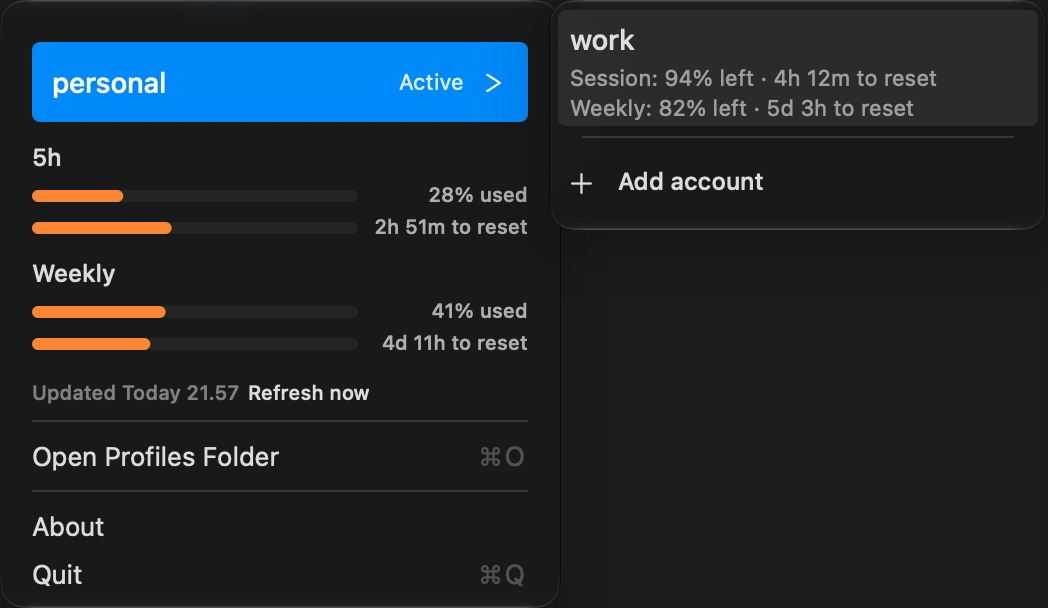
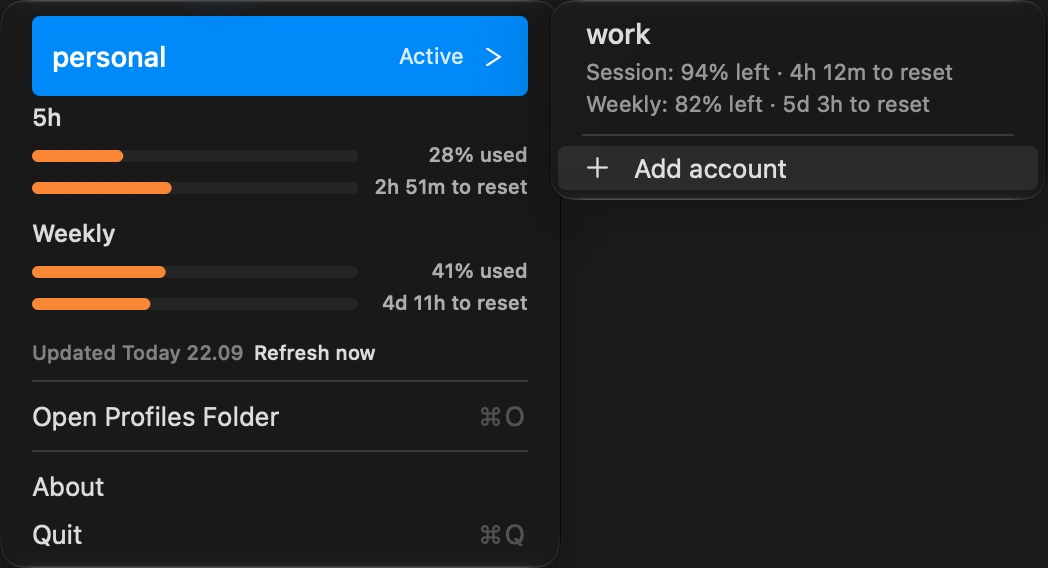
Match account menu spacing to native menu items

diff --git a/CodexAccountSwitcher.swift b/CodexAccountSwitcher.swift
@@ -158,6 +158,26 @@ private final class PlainTextButton: NSButton {
     }
 }
 
+private enum MenuLayout {
+    static let width: CGFloat = 280
+    static let horizontalPadding: CGFloat = 16
+    static let contentWidth = width - horizontalPadding * 2
+    static let itemFont = NSFont.menuFont(ofSize: 0)
+    static let titleDetailGap: CGFloat = 4
+    static let detailGap: CGFloat = 2
+    static let accountBoxHeight: CGFloat = 40
+
+    // Match the space surrounding a standard native menu item's text.
+    static let verticalPadding: CGFloat = {
+        let cell = NSMenuItemCell(textCell: "Menu item")
+        cell.menuItem = NSMenuItem(title: "Menu item", action: nil, keyEquivalent: "")
+        cell.font = itemFont
+        let size = cell.cellSize
+        let titleRect = cell.titleRect(forBounds: NSRect(origin: .zero, size: size))
+        return max(0, (ceil(size.height) - ceil(titleRect.height)) / 2)
+    }()
+}
+
 // Draw the account styling while NSMenu owns submenu tracking and navigation.
 private final class AccountSubmenuCell: NSCell {
     var activeProfile = ""
@@ -213,7 +233,8 @@ private final class AccountSubmenuView: NSView {
     init(activeProfile: String) {
         accountCell = AccountSubmenuCell(textCell: activeProfile.isEmpty ? "Accounts" : activeProfile)
         accountCell.activeProfile = activeProfile
-        super.init(frame: NSRect(x: 0, y: 0, width: 280, height: 66))
+        super.init(frame: NSRect(x: 0, y: 0, width: MenuLayout.width,
+                                 height: MenuLayout.accountBoxHeight + MenuLayout.verticalPadding * 2))
         autoresizingMask = [.width]
         setAccessibilityElement(true)
         setAccessibilityRole(.menuItem)
@@ -226,59 +247,62 @@ private final class AccountSubmenuView: NSView {
 
     // The native menu handles hover, clicks and keyboard navigation for this row.
     override func draw(_ dirtyRect: NSRect) {
-        accountCell.draw(withFrame: NSRect(x: 16, y: 16, width: bounds.width - 32, height: 40), in: self)
+        accountCell.draw(withFrame: NSRect(x: MenuLayout.horizontalPadding, y: MenuLayout.verticalPadding,
+                                          width: bounds.width - MenuLayout.horizontalPadding * 2,
+                                          height: MenuLayout.accountBoxHeight), in: self)
     }
 }
 
 // Menu items retain their native title/action for keyboard navigation and type-select.
 // The view supplies wrapped usage details and a full-width pointer target.
 private final class AccountMenuItemView: NSView {
-    private static let horizontalPadding: CGFloat = 16
     private var isHovered = false
     private var hoverTrackingArea: NSTrackingArea?
 
     override var isFlipped: Bool { true }
 
     init(title: String, details: [String] = [], symbol: String? = nil) {
-        let width: CGFloat = 248
-        let textX = Self.horizontalPadding + (symbol == nil ? 0 : 24)
-        let textWidth = width - textX - Self.horizontalPadding
-        let detailFont = NSFont.systemFont(ofSize: 11)
-        var height: CGFloat = details.isEmpty ? 36 : 28
-        let detailHeights = details.map { detail -> CGFloat in
-            let rect = (detail as NSString).boundingRect(
-                with: NSSize(width: textWidth, height: .greatestFiniteMagnitude),
-                options: [.usesLineFragmentOrigin, .usesFontLeading],
-                attributes: [.font: detailFont]
-            )
-            return ceil(rect.height)
+        let width = MenuLayout.contentWidth
+        let textX = MenuLayout.horizontalPadding + (symbol == nil ? 0 : 24)
+        let textWidth = width - textX - MenuLayout.horizontalPadding
+
+        let titleLabel = NSTextField(labelWithString: title)
+        titleLabel.font = details.isEmpty ? MenuLayout.itemFont : .systemFont(ofSize: 14, weight: .medium)
+        titleLabel.lineBreakMode = .byTruncatingTail
+        let titleHeight = ceil(titleLabel.cell!.cellSize.height)
+        let detailLabels = details.map { detail -> NSTextField in
+            let label = NSTextField(wrappingLabelWithString: detail)
+            label.font = .systemFont(ofSize: 11)
+            label.textColor = .secondaryLabelColor
+            return label
         }
-        height += detailHeights.reduce(0) { $0 + $1 + 2 }
+        let detailHeights = detailLabels.map { label in
+            ceil(label.sizeThatFits(NSSize(width: textWidth, height: CGFloat.greatestFiniteMagnitude)).height)
+        }
+        let contentHeight = titleHeight
+            + (details.isEmpty ? 0 : MenuLayout.titleDetailGap)
+            + detailHeights.reduce(0, +)
+            + CGFloat(max(details.count - 1, 0)) * MenuLayout.detailGap
+        let height = max(contentHeight, symbol == nil ? 0 : 16) + MenuLayout.verticalPadding * 2
         super.init(frame: NSRect(x: 0, y: 0, width: width, height: height))
         autoresizingMask = [.width]
 
-        let label = NSTextField(labelWithString: title)
-        label.font = .systemFont(ofSize: details.isEmpty ? 12 : 14, weight: .medium)
-        label.lineBreakMode = .byTruncatingTail
-        label.frame = NSRect(x: textX, y: details.isEmpty ? 9 : 6, width: textWidth, height: 18)
-        label.autoresizingMask = [.width]
-        label.setAccessibilityElement(false)
-        addSubview(label)
-
-        var y: CGFloat = 27
-        for (index, detail) in details.enumerated() {
-            let label = NSTextField(wrappingLabelWithString: detail)
-            label.font = detailFont
-            label.textColor = .secondaryLabelColor
+        var y = (height - contentHeight) / 2
+        titleLabel.frame = NSRect(x: textX, y: y, width: textWidth, height: titleHeight)
+        titleLabel.autoresizingMask = [.width]
+        titleLabel.setAccessibilityElement(false)
+        addSubview(titleLabel)
+        y += titleHeight + MenuLayout.titleDetailGap
+        for (index, label) in detailLabels.enumerated() {
             label.frame = NSRect(x: textX, y: y, width: textWidth, height: detailHeights[index])
             label.autoresizingMask = [.width]
             label.setAccessibilityElement(false)
             addSubview(label)
-            y += detailHeights[index] + 2
+            y += detailHeights[index] + MenuLayout.detailGap
         }
 
         if let symbol, let image = NSImage(systemSymbolName: symbol, accessibilityDescription: nil) {
-            let icon = NSImageView(frame: NSRect(x: Self.horizontalPadding, y: (height - 16) / 2, width: 16, height: 16))
+            let icon = NSImageView(frame: NSRect(x: MenuLayout.horizontalPadding, y: (height - 16) / 2, width: 16, height: 16))
             icon.image = image
             icon.contentTintColor = .labelColor
             icon.setAccessibilityElement(false)
@@ -335,8 +359,8 @@ private final class AccountMenuItemView: NSView {
 }
 
 private final class UsageBarsMenuView: NSView {
-    private static let menuWidth: CGFloat = 280
-    private static let horizontalPadding: CGFloat = 16
+    private static let menuWidth = MenuLayout.width
+    private static let horizontalPadding = MenuLayout.horizontalPadding
     private static let topPadding: CGFloat = 0
     private static let rowHeight: CGFloat = 58
     private static let footerHeight: CGFloat = 18
@@ -928,7 +952,7 @@ final class AppDelegate: NSObject, NSApplicationDelegate {
     private func accountsSubmenu(profiles: [String], activeProfile: String) -> NSMenu {
         let menu = NSMenu()
         menu.autoenablesItems = false
-        menu.minimumWidth = 248
+        menu.minimumWidth = MenuLayout.contentWidth
         let alternatives = profiles.filter { $0 != activeProfile }
         for profile in alternatives {
             let details = accountUsageDetails(profile)

diff --git a/tests/test_account_menu.py b/tests/test_account_menu.py
@@ -45,6 +45,19 @@ extension AppDelegate {
             assert(choices.map(\.title) == profiles.filter { $0 != "personal" } + ["Add account"])
             assert(choices.last?.view?.frame.width == 248)
             assert(choices.last?.action == #selector(captureCurrent))
+            for item in choices {
+                let row = item.view!
+                let labels = row.subviews.compactMap { $0 as? NSTextField }
+                let top = labels.map { $0.frame.minY }.min()!
+                let bottom = row.bounds.height - labels.map { $0.frame.maxY }.max()!
+                assert(abs(top - bottom) < 0.01, "Account rows must have equal top and bottom padding")
+                assert(labels.allSatisfy { $0.frame.minY >= 0 && $0.frame.maxY <= row.bounds.height })
+            }
+            let nativeCell = NSMenuItemCell(textCell: "Open Profiles Folder")
+            nativeCell.menuItem = main.item(withTitle: "Open Profiles Folder")
+            nativeCell.font = main.font
+            assert(choices.last?.view?.frame.height == nativeCell.cellSize.height,
+                   "Add account must have the same row height as a native menu action")
             for item in choices.dropLast() {
                 assert(item.representedObject as? String == item.title)
                 assert(item.action == #selector(switchProfile(_:)))
